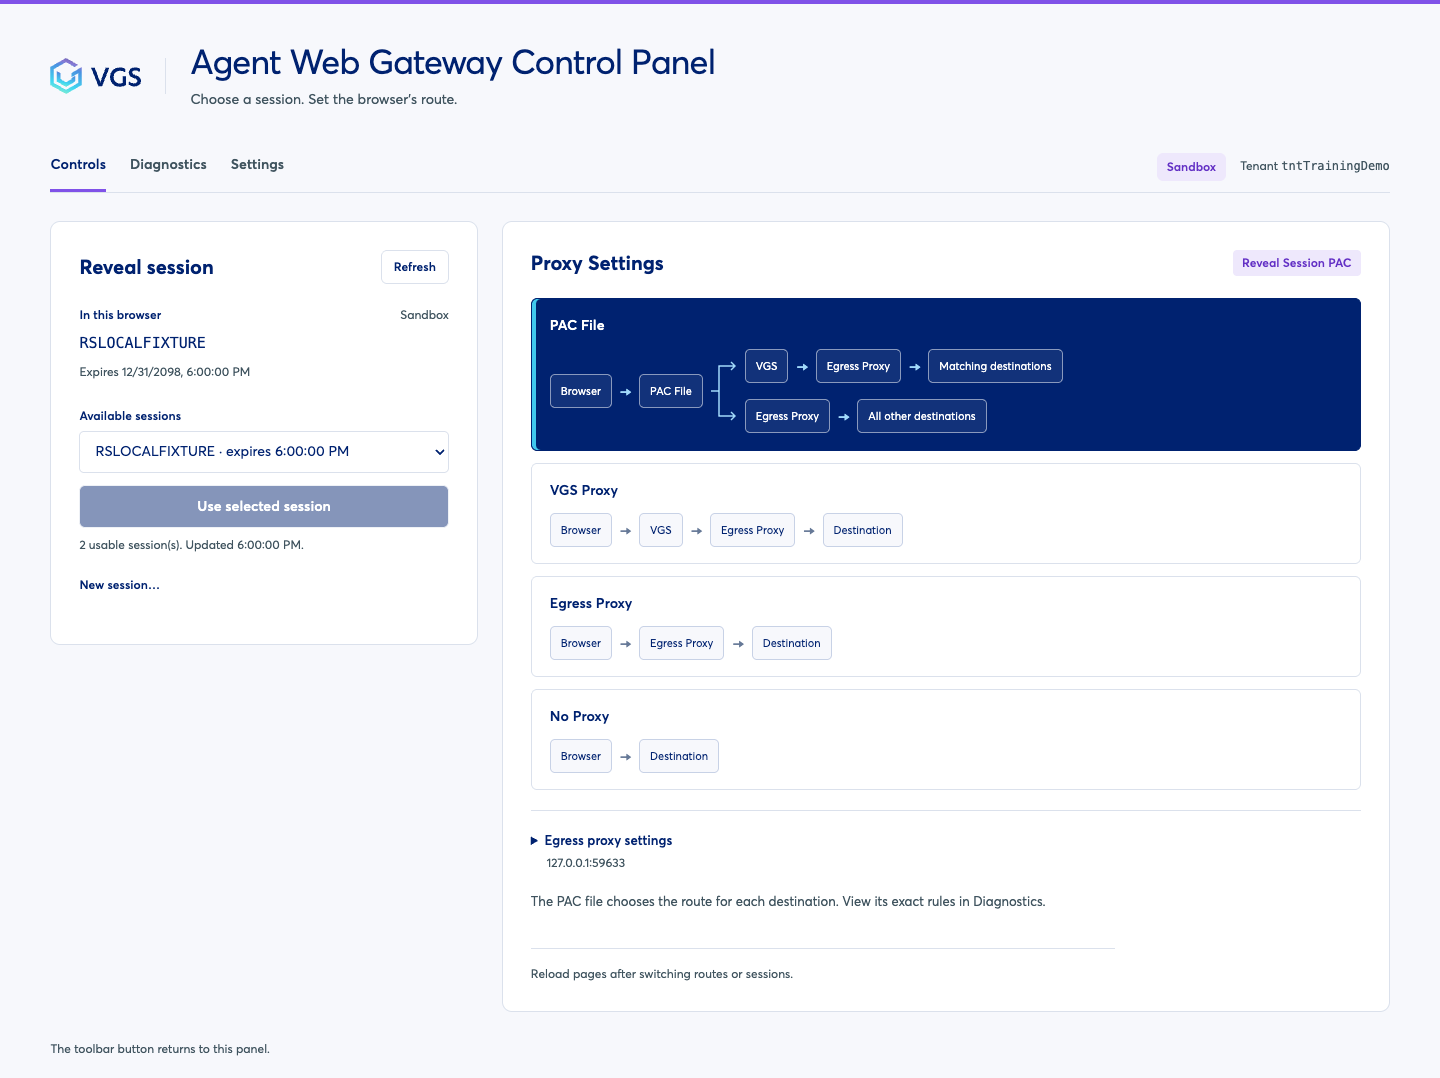
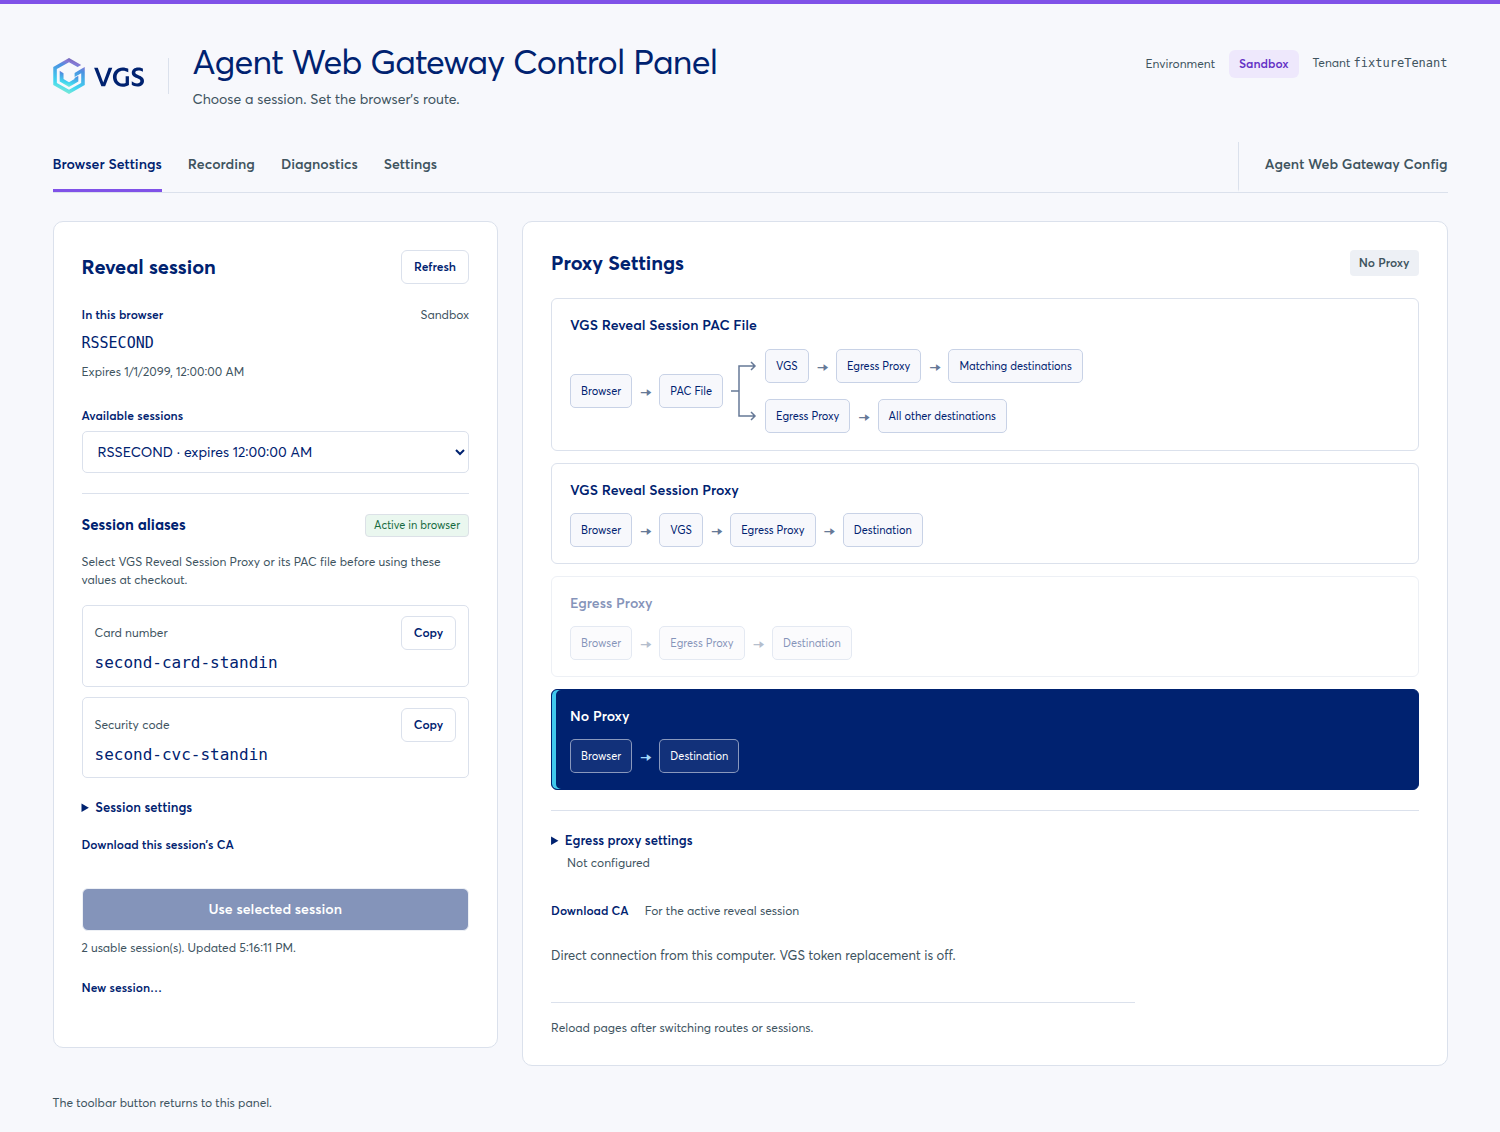
Refresh walkthrough with verified synthetic panel screenshots

diff --git a/tools/vgs-proxy-controls/build-package.py b/tools/vgs-proxy-controls/build-package.py
@@ -29,7 +29,7 @@ FILES = [
     'session-proxy-extension/assets/icon-48.png',
     'README.md', 'sandbox.env.example', '.gitignore', 'build-package.py',
     'screenshots/control-panel.png', 'screenshots/settings.png',
-    'screenshots/create-session.png', 'screenshots/diagnostics.png',
+    'screenshots/create-session.png', 'screenshots/diagnostics.png', 'screenshots/gateway-config.png',
     'start-proxy-controls.py', 'awg_dev_api.py', 'session_catalog.py',
     'session_proxy_extension.py', 'test_session_catalog.py',
     'test_session_proxy_extension.mjs', 'test_session_proxy_browser.py',

diff --git a/SOURCES.md b/SOURCES.md
@@ -6,20 +6,20 @@ The training pages in `docs/training/` were written on 2026-11-16 from the files
 
 | Path here | Origin | Dated | Changed? |
 |---|---|---|---|
-| `docs/reference/01…04-*.md`, `request-path.svg`, `api-inventory-full.md` | AWG docs bundle (`awg-docs-bundle`), written from vault-management `awg/stack-top` at `d37e6452` and proxy `awg/stack-top` at `a02ccd315` | 2026-11-12 | No |
+| `docs/reference/01…04-*.md`, `request-path.svg`, `api-inventory-full.md` | AWG docs bundle (`awg-docs-bundle`), written from vault-management `awg/stack-top` at `d37e6452` and proxy `awg/stack-top` at `a02ccd315` | 2026-11-12 | Replaced an internal tenant example with a placeholder |
 | `openapi/` | Same bundle | 2026-11-12 | No |
 | `examples/functions/` | Same bundle, `harness/examples/` | 2026-11-12 | No |
 | `docs/images/*.png` | Two slides exported from VGS's Google Slides deck "Agent Web Gateway" (dated Nov 2026, marked confidential): the token-swap flow and the client-side-encryption flow | 2026-11 | No |
-| `tools/vgs-proxy-controls/` | Clean `vgs-agent-web-gateway-control-panel-1.7.6.zip` source package, updated here as 1.7.7; `SHA256SUMS` covers the packaged files | 2026-11-18 | Current panel/helper, corrected CLI scope text, Sandbox setup examples/default, screenshots and browser fixture support |
+| `tools/vgs-proxy-controls/` | Clean 1.7.6 source package plus maintained panel/helper changes, updated here as 1.10.0; `SHA256SUMS` covers the packaged files | 2026-11-19 | Current panel, recording/MCP tools, gateway views, session/CA fixes, publication checks and five synthetic screenshots |
 | `tools/sitecheck/` | `awg-sitecheck` release of 2026-11-14, plus local changes made on 2026-11-15 and 2026-11-16 | 2026-11-16 | See below |
-| `skills/vgs-checkout-adapter/` | The `vgs-checkout-adapter` skill, packaged 2026-11-13; its own provenance is in `references/source-notes.md` | 2026-11-13 | No |
+| `skills/vgs-checkout-adapter/` | The `vgs-checkout-adapter` skill, packaged 2026-11-13; its own provenance is in `references/source-notes.md` | 2026-11-19 | Session-kit compatibility fixes and adapter debugging reference |
 
 Local changes in `tools/sitecheck/` relative to the 2026-11-14 release:
 
 - `awg_sitecheck/browser.py`, `awg_sitecheck/purchase.py`: for recipes that call `run.require_success`, a failed page load now stops a checkout and records the status, a URL without credentials, the session id and the request id.
 - `recipes/hm_us.py`: waits and retries when the checkout page's scripts are rate-limited.
 - Added `recipes/ikea_us.py` and `tests/test_navigation_failures.py`.
-- Replaced two machine-specific source paths in research documents with portable repository/commit references.
+- Replaced two machine-specific source paths in research documents with portable repository/commit references. Replaced account-bound tenant, adapter and binding examples with placeholders.
 - Left out: four helper scripts tied to one person's Keychain and 1Password setup, and every credential, card, state and run-output file.
 
 ## Where the sources disagree
@@ -59,17 +59,18 @@ Local changes in `tools/sitecheck/` relative to the 2026-11-14 release:
 
 ## Keeping this accurate
 
-The control-panel update on 2026-11-18 replaces the older bundled extension with
-1.7.7 source and adds a build workflow, Sandbox setup guide and four screenshots.
-The source derives from the clean 1.7.6 package; generated private configuration
-was not imported. Documentation uses the official browser references linked in
-the extension chapter and distribution guide.
+The control-panel update on 2026-11-19 publishes version 1.10.0 with recording,
+MCP tools, gateway views, session/CA fixes, a build workflow, and five screenshots.
+Only reviewed source was imported; private generated configuration and captures
+were excluded. Documentation uses the official browser references linked in the
+extension chapter and distribution guide.
 
-Local verification passed 41 Python helper tests and 29 extension-worker tests.
-The Chrome for Testing browser harness verified routing, session switches, proxy
-authentication, worker restarts, PAC display and HAR/video generation using local
-fixtures. Walkthrough screenshots use synthetic Sandbox data and mocked Collect;
-no real VGS account, tokenization or merchant transaction was involved. Other
-browser/version combinations and the end-to-end labs still need validation.
+Local verification passed 116 helper/privacy tests, 31 extension-worker tests and
+24 session-kit tests. GitHub Actions passed isolated Chromium fixtures for MCP
+capture, panel recording, gateway navigation, session aliases, activation and CA
+downloads. The source and downloadable ZIP passed publication and secret scans.
+Walkthrough screenshots use synthetic Sandbox data. No real VGS account, card
+tokenization or merchant transaction was involved. Other browser/version
+combinations and the end-to-end labs still need validation.
 
 When the product changes, update `docs/reference/` from the new bundle first, then fix the training pages that cite the changed section, then update the dates in `README.md` and this file.

diff --git a/docs/training/10-proxy-controls-extension.md b/docs/training/10-proxy-controls-extension.md
@@ -141,7 +141,7 @@ select **Egress Proxy**. Defer the fresh payment session until checkout preparat
 
 Choose an entry under **Available sessions** and click **Use selected session**.
 The current route is preserved. Reload merchant pages after switching and use the
-new session's stand-ins in any checkout fields.
+new session's values from **Session aliases** in any checkout fields.
 
 For a new session, open **New session…**. Use **Add card** for VGS Collect hosted
 fields, or **Add alias** for existing aliases. Sandbox offers public **Test cards**
@@ -151,16 +151,27 @@ egress used for browsing; manual browser egress settings are not copied into thi
 form. The new session's private creation response is saved locally. Select it
 when ready, then explicitly enable the VGS route before loading checkout.
 
-![Create reveal session form populated with synthetic aliases](../../tools/vgs-proxy-controls/screenshots/create-session.png)
+![Create reveal session form using a synthetic Sandbox account](../../tools/vgs-proxy-controls/screenshots/create-session.png)
 
 ### 7. Inspect routing and turn it off
 
 Select a route in **Proxy Settings**. **Diagnostics → View actual PAC file → Load
 PAC script** shows the script used by the current session. PAC chooses routes by
 host, not checkout stage. To proxy only the checkout portion manually, use
-**Egress Proxy** while browsing, then select **VGS Proxy** before checkout.
+**Egress Proxy** while browsing, then select **VGS Reveal Session Proxy** before checkout.
 
-![Diagnostics showing the actual PAC script from a local fixture](../../tools/vgs-proxy-controls/screenshots/diagnostics.png)
+![Diagnostics with CA download, PAC inspection and HAR export controls](../../tools/vgs-proxy-controls/screenshots/diagnostics.png)
+
+Open **Agent Web Gateway Config** to inspect destinations and adapters. Each
+adapter contains its functions and connected destinations. Destination details
+show the inputs supplied to those functions; the view does not edit or approve
+gateway configuration.
+
+![Adapter functions and connected destinations](../../tools/vgs-proxy-controls/screenshots/gateway-config.png)
+
+Use the separate **Recording** tab to capture one selected test tab. Recording
+does not change the proxy route. See the [recording instructions](../../tools/vgs-proxy-controls/README.md#automatic-test-recording)
+for the browser debugging setup and capture controls.
 
 Choose **No Proxy** to turn proxying off. When finished, close the training browser
 and press Ctrl-C in the helper terminal. Stopping the helper alone does not turn

diff --git a/README.md b/README.md
@@ -94,7 +94,7 @@ Chrome, Edge and Brave use a one-time **Load unpacked** step; see the
 These screenshots use synthetic Sandbox data and local fixtures. They show the
 interface, not a real account, merchant transaction or completed tokenization.
 
-**1. Controls:** confirm the tenant, configure egress, and choose **Egress Proxy**
+**1. Browser Settings:** confirm the tenant, configure egress, and choose **Egress Proxy**
 before browsing. Create the payment reveal session when checkout is ready.
 Choose **No Proxy** to turn proxying off for this browser profile.
 
@@ -111,13 +111,21 @@ through Collect or use available aliases, and create a session with the same
 egress used for browsing. Select the new session, then explicitly enable a VGS
 route before loading checkout. Selection preserves the current route.
 
-![Create reveal session with synthetic aliases](tools/vgs-proxy-controls/screenshots/create-session.png)
+![Create reveal session form using a synthetic Sandbox account](tools/vgs-proxy-controls/screenshots/create-session.png)
 
 **4. Diagnostics:** inspect the actual PAC script and the HAR export setting.
 Enabling sensitive-HAR export does not start a recording. The optional MCP setup
 appears under **Connect an assistant with MCP**.
 
 ![Diagnostics: PAC script and HAR export information](tools/vgs-proxy-controls/screenshots/diagnostics.png)
+
+**5. Agent Web Gateway Config:** inspect destinations and adapters. Open an adapter
+to see its functions and connected destinations, including the inputs supplied by
+each destination. This panel is read-only.
+
+![Adapter details with functions and connected destinations](tools/vgs-proxy-controls/screenshots/gateway-config.png)
+
+Use the separate **Recording** tab to start and stop a selected tab's HAR capture.
 
 When finished, select **No Proxy**, close the test browser and stop the helper with
 Ctrl-C. Keep credentials, generated extensions, saved sessions and HAR files private.

diff --git a/docs/training/extension-distribution.md b/docs/training/extension-distribution.md
@@ -147,7 +147,7 @@ the browser setup route before lab 4, so learners can choose a route and see the
 PAC file without editing browser flags during checkout. Link the versioned kit
 and its browser support notes from page 10.
 
-The **Agent Web Gateway Testing** README puts the control-panel download and
+The **Agent Web Gateway dev kit** README puts the control-panel download and
 walkthrough after the product introduction. It links the reviewed source/helper
 artifact rather than a generated private extension directory.
 
@@ -164,11 +164,12 @@ The package does not start a merchant test or submit a payment.
 
 ## Verified scope
 
-The source is based on the clean 1.7.6 package, updated to 1.8.0 for this repository.
-Local verification covers helper tests, extension-worker tests, and a Chrome for
-Testing browser harness with synthetic sessions, dummy proxy credentials and
-mocked Collect. The four walkthrough screenshots are generated from Sandbox
-fixtures. No real VGS account, card tokenization or merchant payment was used.
+The source began with the clean 1.7.6 package and is updated to 1.10.0 in this
+repository. Local verification passed 116 helper/privacy tests, 31 extension-worker
+tests and 24 session-kit tests. GitHub Actions also passed isolated Chromium
+fixtures for MCP capture, panel recording, gateway views, session aliases and CA
+downloads. The five walkthrough screenshots come from synthetic Sandbox fixtures.
+No real VGS account, card tokenization or merchant payment was used.
 
 Browser launch examples and distribution choices reference the official vendor
 documentation linked in this guide and the browser walkthrough. They do not

diff --git a/tools/vgs-proxy-controls/README.md b/tools/vgs-proxy-controls/README.md
@@ -125,7 +125,7 @@ select **Egress Proxy** before browsing.
 All screenshots use synthetic Sandbox data and local fixtures. They do not show
 real credentials, a live session or merchant traffic.
 
-**Controls:** select a saved session, then choose a route. **No Proxy** turns proxying off.
+**Browser Settings:** select a saved session, then choose a route. **No Proxy** turns proxying off.
 
 ![Session selection and proxy routing diagrams](screenshots/control-panel.png)
 
@@ -135,12 +135,18 @@ real credentials, a live session or merchant traffic.
 
 **New session:** open the form when needed and use hosted card fields or existing aliases.
 
-![Create reveal session with example aliases](screenshots/create-session.png)
+![Create reveal session form using a synthetic Sandbox account](screenshots/create-session.png)
 
 **Diagnostics:** inspect the actual PAC script and sensitive-HAR export setting,
 or expand **Connect an assistant with MCP** for its local client configuration.
 
 ![PAC file and HAR export details](screenshots/diagnostics.png)
+
+**Agent Web Gateway Config:** inspect destinations and adapters. Each adapter
+contains its functions and connected destinations; destination details show the
+function inputs. This panel is read-only.
+
+![Adapter functions and connected destinations](screenshots/gateway-config.png)
 
 ## Use
 
